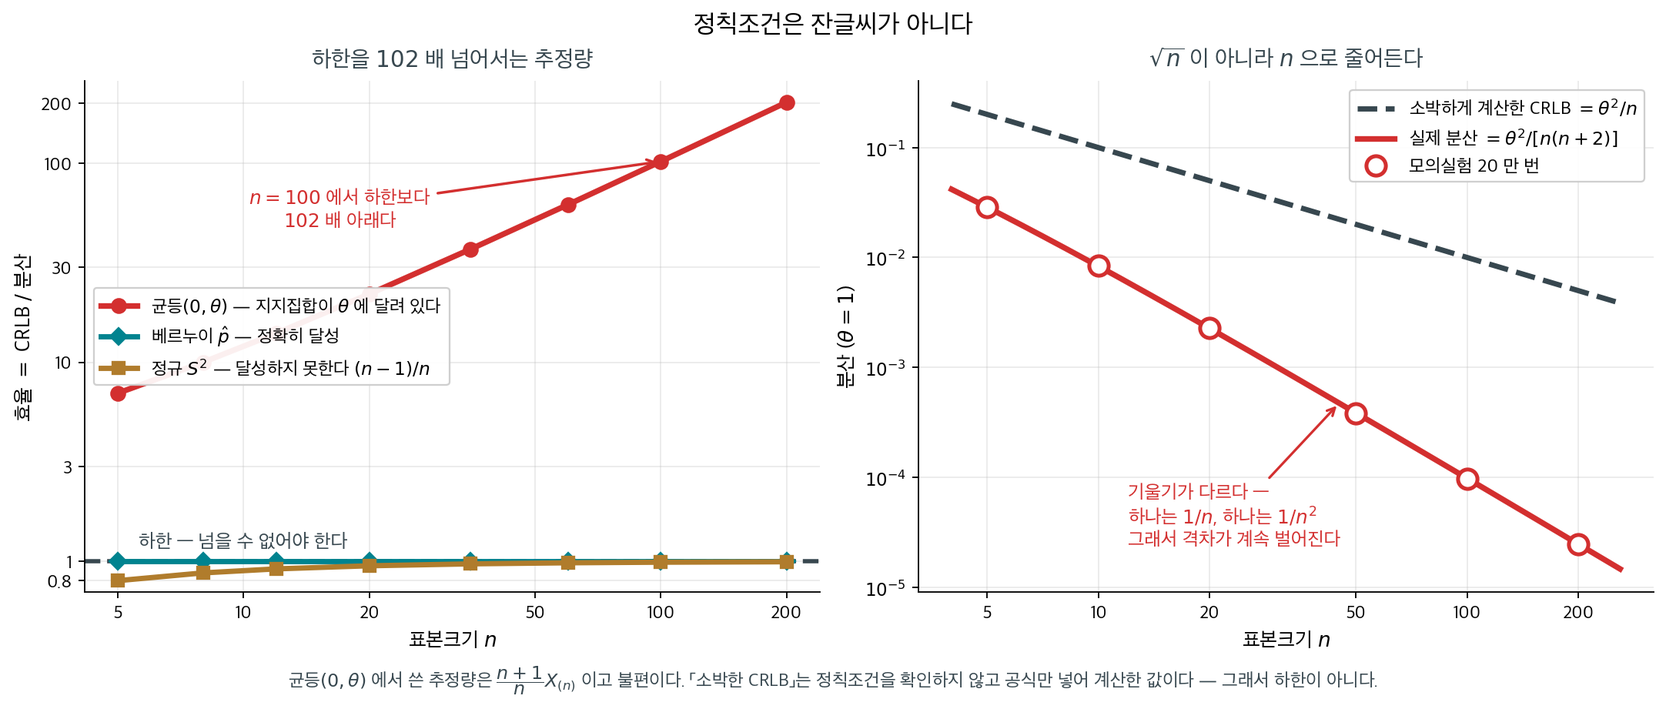
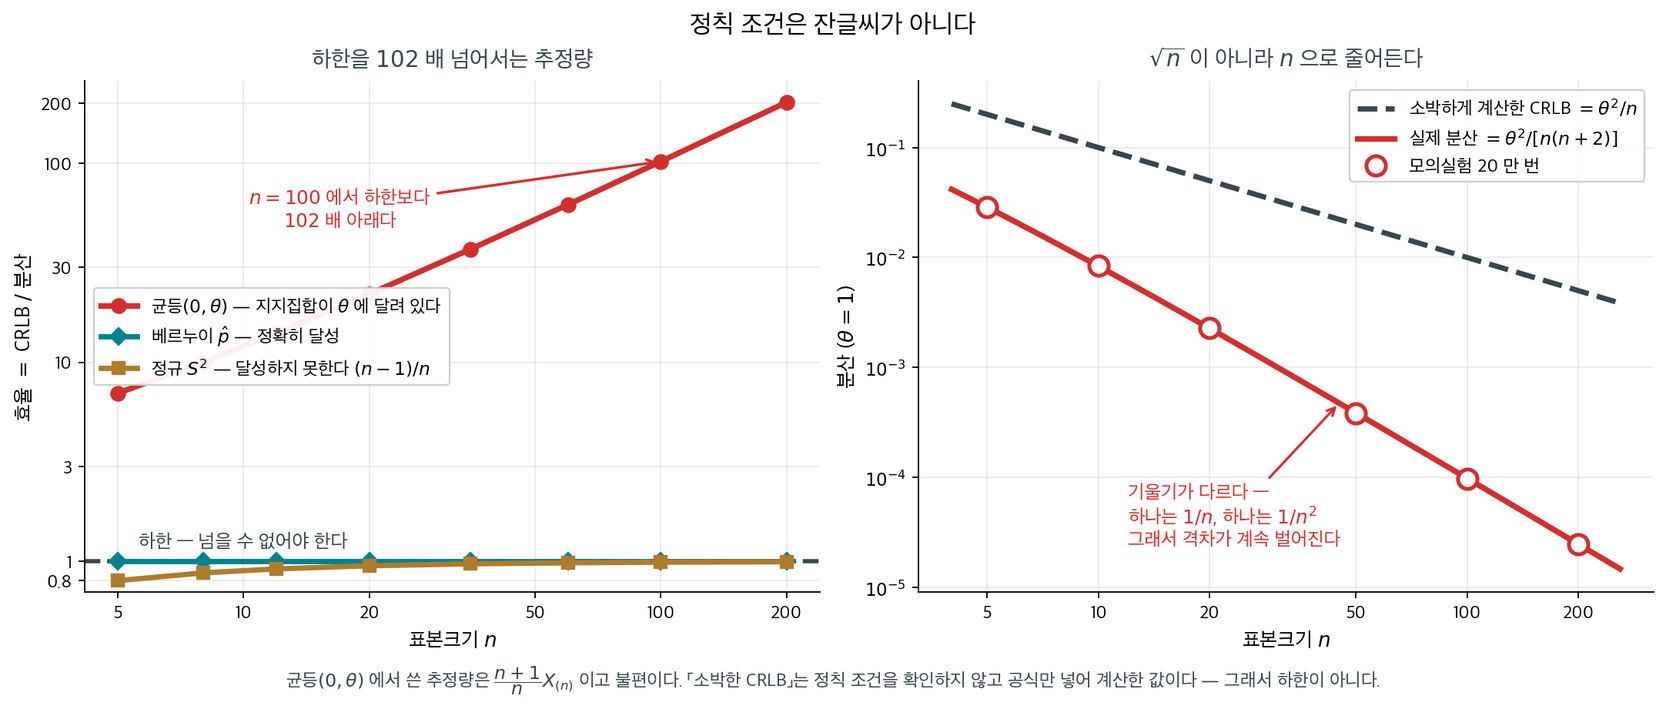
edit(ch07): 7장을 코드를 돌려 가며 다시 읽고 표기를 표준형으로 맞춘다
내용
- consistency: 「확률수렴의 필요충분조건은 E|X| < ∞」는 강한 큰수의 법칙의 조건이다.
  충분조건으로 고쳤다. v = 1/I(θ) 를 MLE·정칙 조건으로 한정, 「보여라」 풀이에 증명을 넣었다
- efficiency_crlb: 2/π 는 폭이 아니라 분산의 비다. 관측값 하나의 ℓ 과 표본 전체를 가르고,
  e^{-λ} 의 하한 유도를 넣었다. 라오의 나이(확인 못 함)를 뺐다
- sufficiency · sufficiency_completeness: 인수분해 정리 증명의 이산 가정, 최소충분성의
  역방향, 완비성 정의의 한정사, 상자의 표준편차 0.0625/0.0630, UMVUE 유일성의 서술
- mle_asymptotics · fisher_information: 「MLE 는 편향」의 전칭, 호지스 상자와 부딪히는
  효율성 문장, 정의 블록의 영어 병기, 기울기 최적 설계의 용량(±2.399)

표기(책 전체): 보조통계량 · 최소분산불편추정량 · 관측/기대 정보량 · 정칙 조건 ·
헤세행렬 · 점근 효율성 · 강한 일치성 · 크라메르 · 슬러츠키. 7장 머리글의 인명은
라오–블랙웰 · 레만–셰페, 호지스 추정량의 a_n 은 절단값. 그림 셋을 다시 그렸다.

Changed region(s): [[0.1548, 0.9425, 0.836, 0.9729], [0.4025, 0.0, 0.5883, 0.0608]]

diff --git a/scripts/make_ch05_quality_figures.py b/scripts/make_ch05_quality_figures.py
@@ -7,7 +7,7 @@ r"""6.3 추정량의 품질 다섯 쪽의 그림을 생성한다.
   ch05/estimators/img/shrinkage_mse.png          축소추정량의 최적 λ
   ch07/theory/img/consistency_asymptotics.png 일치성과 점근정규성
   ch07/theory/img/crlb_information.png       곡률·정보량·분산 하한
-  ch07/theory/img/sufficiency_ladder.png     압축 사다리와 Rao–Blackwell
+  ch07/theory/img/sufficiency_ladder.png     압축 사다리와 라오–블랙웰
 
 실행:  python3 scripts/make_ch06_quality_figures.py   (저장소 최상위에서)
 필요:  numpy, matplotlib — 문서 빌드에는 필요하지 않다.
@@ -367,7 +367,7 @@ def crlb_information():
 
 
 # ==================================================================
-# 6. 압축 사다리와 Rao–Blackwell
+# 6. 압축 사다리와 라오–블랙웰
 # ==================================================================
 def sufficiency_ladder():
     fig, axes = plt.subplots(1, 2, figsize=(13.5, 4.8),
@@ -413,7 +413,7 @@ def sufficiency_ladder():
     ax.axis("off")
     ax.set_title("압축의 사다리", fontsize=13, pad=10)
 
-    # (b) Rao–Blackwell
+    # (b) 라오–블랙웰
     ax = axes[1]
     x = np.linspace(-3.6, 3.6, 700)
     ax.plot(x, normal_pdf(x, 0, 1.25), color=ORANGE, linewidth=2.3,
@@ -436,7 +436,7 @@ def sufficiency_ladder():
     ax.set_xticklabels(["$\\theta$"], fontsize=12)
     bare_axis(ax)
     ax.legend(fontsize=10.5, frameon=False, loc="upper left")
-    ax.set_title("Rao–Blackwell — 충분통계량으로 조건을 걸면", fontsize=13,
+    ax.set_title("라오–블랙웰 — 충분통계량으로 조건을 걸면", fontsize=13,
                  pad=10)
 
     fig.tight_layout()

diff --git a/scripts/make_ch06_crlb_regularity.py b/scripts/make_ch06_crlb_regularity.py
@@ -1,4 +1,4 @@
-r"""6.2절 「그림으로 보는 통계학」 — 정칙조건은 잔글씨가 아니다.
+r"""6.2절 「그림으로 보는 통계학」 — 정칙 조건은 잔글씨가 아니다.
 
 크라메르-라오 하한에는 조건이 붙어 있다. 그 가운데 첫째가 「지지집합이
 theta 에 의존하지 않는다」이고, 이 쪽도 정리 1 의 조건 1 로 적어 두었다.
@@ -140,10 +140,10 @@ def main():
     ax.grid(alpha=0.25)
     ax.spines[["top", "right"]].set_visible(False)
 
-    fig.suptitle("정칙조건은 잔글씨가 아니다", fontsize=14.5)
+    fig.suptitle("정칙 조건은 잔글씨가 아니다", fontsize=14.5)
     fig.text(0.5, -0.05,
              "균등$(0,\\theta)$ 에서 쓴 추정량은 $\\dfrac{n+1}{n}X_{(n)}$ 이고 "
-             "불편이다. 「소박한 CRLB」는 정칙조건을 확인하지 않고 공식만 "
+             "불편이다. 「소박한 CRLB」는 정칙 조건을 확인하지 않고 공식만 "
              "넣어 계산한 값이다 — 그래서 하한이 아니다.",
              ha="center", fontsize=10.4, color=INK)
 

diff --git a/scripts/make_ch07_hodges.py b/scripts/make_ch07_hodges.py
@@ -1,6 +1,6 @@
 r"""호지스의 초효율 추정량 — 공짜로 보이는 것의 값은 어디에 적혀 있는가.
 
-$X_1,\dots,X_n \sim \mathcal{N}(\theta, 1)$ 에서 $a_n = n^{-1/4}$ 로 두고
+$X_1,\dots,X_n \sim N(\theta, 1)$ 에서 $a_n = n^{-1/4}$ 로 두고
 
     theta_hat = Xbar  if |Xbar| >= a_n,   0  otherwise
 
@@ -129,6 +129,6 @@ for n in [10, 100, 1_000, 10_000, 100_000, 1_000_000]:
     r = minimize_scalar(lambda t: -risk(t, n), bounds=(1e-6, 3 * a), method="bounded")
     print(f"  {n:>7,}  {risk(0.0, n):8.4f}  {risk(0.1, n):10.4f}  "
           f"{risk(0.5, n):10.4f}  {-r.fun:11.2f}  {r.x:11.5f}")
-print("\n   견줌 — 임계값 a_n = n^{-1/4}")
+print("\n   견줌 — 절단값 a_n = n^{-1/4}")
 for n in [10, 100, 1_000, 10_000, 100_000, 1_000_000]:
     print(f"  {n:>7,}   a_n = {n ** -0.25:.5f}")

diff --git a/scripts/make_ch13_leadbox_figures_b.py b/scripts/make_ch13_leadbox_figures_b.py
@@ -139,7 +139,7 @@ for fx, fy, ha, txt, col in [
     ax.text(fx, fy, txt, transform=ax.transAxes, ha=ha, va="bottom"
             if fy < 0.5 else "top", fontsize=13.5, color=col,
             fontweight="bold")
-ax.set_xlabel("연관의 크기 — 크래머 V", fontsize=12)
+ax.set_xlabel("연관의 크기 — 크라메르 V", fontsize=12)
 ax.set_ylabel("확실함 — p 값 (위로 갈수록 확실하다)", fontsize=12)
 ax.set_title("세로로만 움직이는 선이 있고 가로로만 움직이는 선이 있다",
              fontsize=13)

diff --git a/scripts/make_ch02_confusion_mosaic.py b/scripts/make_ch02_confusion_mosaic.py
@@ -100,6 +100,6 @@ plt.close(fig)
 print("saved", path)
 
 print(f"n = {n:,},  참 양성 {y.sum():,} 개 ({100*y.mean():.2f} 퍼센트)")
-print("분류기                   정확도     카이제곱        p      크래머 V")
+print("분류기                   정확도     카이제곱        p      크라메르 V")
 for name, acc, chi2, pv, v, T in rows:
     print(f"{name:<22}{acc*100:8.2f}{chi2:12.2f}{pv:9.4f}{v:10.3f}   표 {T.ravel().astype(int)}")

diff --git a/scripts/make_ch07_neyman_scott.py b/scripts/make_ch07_neyman_scott.py
@@ -1,6 +1,6 @@
 r"""네이만과 스콧의 이름이 붙은 두 자리.
 
-① **네이만–스콧 문제** — 짝 자료 $X_{i1}, X_{i2} \sim \mathcal{N}(\mu_i, \sigma^2)$.
+① **네이만–스콧 문제** — 짝 자료 $X_{i1}, X_{i2} \sim N(\mu_i, \sigma^2)$.
    관측은 $2m$ 개인데 모수가 $m+1$ 개라서, $m \to \infty$ 여도 MLE 가
    $\sigma^2/2$ 에 머문다. 일치성이 깨진다.
 ② 견줌 — 고른 포아송 점들.

diff --git a/docs/ch07/theory/efficiency_crlb.md b/docs/ch07/theory/efficiency_crlb.md
@@ -4,7 +4,7 @@
 
 어떤 불편추정량도 넘을 수 없는 분산의 바닥이 있고, 정규모집단에서 표본평균(sample mean)은 그 바닥에 **정확히 닿는다.** 그래서 중앙값은 같은 정밀도를 내려면 관측값이 더 들고, 점근적으로 그 효율이 $2/\pi = 0.6366$ 이다. 그런데 $\sigma = 2$, $n = 50$ 에서 모의실험으로 재면 $0.6567$ 이 나와 점근값보다 $3\%$ 크다. 몬테카를로(Monte Carlo) 오차인가, 아니면 유한표본에서 실제로 다른 것인가 — 그 물음에 답하려면 바닥이 어떻게 유도되었는지를 알아야 한다.
 
-모수적 모형이 주어지면 모수 $\theta$에 대한 불편추정량이 여럿 존재할 수 있다. 어떤 것은 다른 것보다 분산이 작을 텐데, 자연스러운 물음이 떠오른다. 불편추정량의 분산은 얼마나 작아질 수 있는가? **크라메르–라오 하한**(Cramér–Rao lower bound, CRLB(Cramer-Rao lower bound))은 임의의 불편추정량의 분산에 근본적인 바닥을 설정함으로써 이 물음에 답한다. 어떤 특정 추정량의 품질을 재는 기준선을 제공하므로 추정이론의 중심이 되는 결과이다.
+모수적 모형이 주어지면 모수 $\theta$에 대한 불편추정량이 여럿 존재할 수 있다. 어떤 것은 다른 것보다 분산이 작을 텐데, 자연스러운 물음이 떠오른다. 불편추정량의 분산은 얼마나 작아질 수 있는가? **크라메르–라오 하한**(Cramer-Rao lower bound, CRLB)은 임의의 불편추정량의 분산에 근본적인 바닥을 설정함으로써 이 물음에 답한다. 어떤 특정 추정량의 품질을 재는 기준선을 제공하므로 추정이론의 중심이 되는 결과이다.
 
 ---
 
@@ -16,7 +16,7 @@ $$
 I(\theta) = E\!\left[\left(\frac{\partial}{\partial\theta}\log f(X;\theta)\right)^{2}\right] = -E\!\left[\frac{\partial^{2}}{\partial\theta^{2}}\log f(X;\theta)\right]
 $$
 
-이며 독립표본에서는 $n I(\theta)$ 로 더해진다. 두 꼴이 같다는 것과 $E[s] = 0$ 이라는 것은 $7.2$ 절 [피셔 정보량](fisher_information.md)이 정의 $1$·$2$ 와 정리 $1$·$2$ 로 증명해 두었고, 베르누이·정규·포아송에서의 값도 거기 보기 $1$–$3$ 에 있다. 여기서는 그 수를 **하한으로 쓰는** 일만 한다.
+이며 독립표본에서는 $n I(\theta)$ 로 더해진다. 두 꼴이 같다는 것과 $E[s] = 0$ 이라는 것은 $7.2$ 절 [피셔 정보량과 표준오차](fisher_information.md)가 정의 $1$·$2$ 와 정리 $1$·$2$ 로 증명해 두었고, 베르누이·정규·포아송에서의 값도 거기 보기 $1$–$3$ 에 있다. 여기서는 그 수를 **하한으로 쓰는** 일만 한다.
 
 ---
 
@@ -98,9 +98,9 @@ $1 / (nI(\theta))$가 크라메르–라오 하한이다. 어떤 불편추정량
 
 ![곡률, 정보량, 그리고 분산의 바닥](./img/crlb_information.png)
 
-왼쪽이 정보량의 뜻이다. 로그가능도가 꼭대기에서 급하게 휘어 있으면 $\theta$를 조금만 옮겨도 가능도가 크게 떨어지므로, 자료가 "여기다"라고 강하게 말하는 셈이다. 평평하면 그 반대다. 넓은 구간의 $\theta$가 거의 같은 정도로 자료를 설명하므로 어디가 참값인지 자료가 잘 구별하지 못한다. $I(\theta) = -E[\ell''(\theta)]$가 재는 것이 정확히 이 곡률이다.
+왼쪽이 정보량의 뜻이다. 로그가능도가 꼭대기에서 급하게 휘어 있으면 $\theta$를 조금만 옮겨도 가능도가 크게 떨어지므로, 자료가 "여기다"라고 강하게 말하는 셈이다. 평평하면 그 반대다. 넓은 구간의 $\theta$가 거의 같은 정도로 자료를 설명하므로 어디가 참값인지 자료가 잘 구별하지 못한다. 관측값 하나의 로그가능도를 $\ell$ 로 적으면 $I(\theta) = -E[\ell''(\theta)]$가 재는 것이 정확히 이 곡률이고, 독립인 관측값 $n$ 개에서는 곡률이 더해져 $nI(\theta)$ 가 된다.
 
-오른쪽이 그 결과다. 정보량이 정해지면 불편추정량의 분산에 바닥이 생기고, 그 바닥에 닿은 추정량이 **효율적**이다. 정규모집단에서 표본평균은 바닥에 정확히 닿지만 표본중앙값은 그러지 못한다. 두 곡선의 폭 차이가 효율 $2/\pi \approx 0.64$이며, 표본중앙값이 표본평균만큼 정밀해지려면 표본크기를 약 $\pi/2 \approx 1.57$배로 늘려야 한다는 뜻이기도 하다.
+오른쪽이 그 결과다. 정보량이 정해지면 불편추정량의 분산에 바닥이 생기고, 그 바닥에 닿은 추정량이 **효율적**이다. 정규모집단에서 표본평균은 바닥에 정확히 닿지만 표본중앙값은 그러지 못한다. 두 곡선의 **분산**의 비가 효율 $2/\pi \approx 0.64$이며(폭, 곧 표준편차의 비로는 $\sqrt{2/\pi} \approx 0.80$ 이다), 표본중앙값이 표본평균만큼 정밀해지려면 표본크기를 약 $\pi/2 \approx 1.57$배로 늘려야 한다는 뜻이기도 하다.
 
 !!! example "정규분포 평균의 CRLB"
 
@@ -153,7 +153,7 @@ $1 / (nI(\theta))$가 크라메르–라오 하한이다. 어떤 불편추정량
     표본중앙값은 다르다. 중앙값의 점근분포는
 
     $$
-    \sqrt{n}\,(\tilde X - \mu) \overset{d}{\to} N\!\left(0, \frac{1}{4f(\mu)^2}\right)
+    \sqrt{n}\,(\tilde X - \mu) \xrightarrow{d} N\!\left(0, \frac{1}{4f(\mu)^2}\right)
     $$
 
     인데 정규밀도의 중앙에서 $f(\mu) = 1/(\sigma\sqrt{2\pi})$이므로
@@ -285,7 +285,7 @@ $$
 
 !!! example "표본중앙값의 효율 (정규분포)"
 
-    $X_1, \ldots, X_n \overset{\text{iid}}{\sim} N(\mu, \sigma^2)$에서 표본중앙값도 $\mu$의 불편추정량이지만 점근분산은 $\pi \sigma^2 / (2n)$이다. 따라서 점근 효율은
+    $X_1, \ldots, X_n \overset{\text{iid}}{\sim} N(\mu, \sigma^2)$에서 표본중앙값도 $\mu$의 불편추정량이지만 $n$ 이 클 때 분산이 근사적으로 $\pi \sigma^2 / (2n)$이다. 따라서 점근 효율은
 
     $$
     e(\text{median}) = \frac{\sigma^2/n}{\pi\sigma^2/(2n)} = \frac{2}{\pi} \approx 0.637
@@ -311,7 +311,7 @@ $$
 
 <div class="storybox" markdown>
 
-**그림으로 보는 통계학 1.** 정칙조건은 잔글씨가 아니다
+**그림으로 보는 통계학 1.** 정칙 조건은 잔글씨가 아니다
 
 위 경고가 말하는 「$1/n$ 보다 빠르다」가 얼마나 빠른 것인지 재 보자. 정리 1 의 조건들을 세 모형에서 나란히 놓으면 세 가지 다른 일이 일어난다.
 
@@ -334,7 +334,7 @@ $$
 
 까닭은 자료가 모수를 좁히는 방식에 있다. 보통의 모형에서는 관측값 하나가 $\theta$ 에 대한 믿음을 **조금씩** 조정한다. 그런데 균등분포에서는 $x_i > \theta$ 인 관측값이 하나라도 나오면 그 $\theta$ 는 **즉시 배제된다.** 조금 깎는 것이 아니라 단칼에 자르는 것이다. 그래서 수렴이 $\sqrt{n}$ 이 아니라 $n$ 으로 간다.
 
-끝으로 이 부등식의 내력. **네 사람이 네 해 사이에 따로 얻었다** — 프레셰($1943$, 프랑스), 다르무아($1945$, 프랑스), 라오($1945$, 인도), 크라메르($1946$, 스웨덴). 전쟁으로 나라 사이의 연락이 끊겨 있던 기간이다. 라오 쪽의 계기는 교실이었다. $1944$ 년 $1$ 월, 스물넷이던 그가 캘커타에서 추정을 가르치며 **큰 표본에서 성립하는** 피셔의 결과를 증명해 보이자 한 학생이 물었다 — 「표본이 작을 때는 왜 안 됩니까?」 그는 집에 가 밤을 새웠고, 이듬해 스물다섯에 논문으로 냈다. 그래서 이 부등식을 네 이름을 모두 붙여 부르는 책도 있다.
+끝으로 이 부등식의 내력. **네 사람이 네 해 사이에 따로 얻었다** — 프레셰($1943$, 프랑스), 다르무아($1945$, 프랑스), 라오($1945$, 인도), 크라메르($1946$, 스웨덴). 전쟁으로 나라 사이의 연락이 끊겨 있던 기간이다. 라오 쪽의 계기는 교실이었다. $1944$ 년 $1$ 월, 그가 캘커타에서 추정을 가르치며 **큰 표본에서 성립하는** 피셔의 결과를 증명해 보이자 한 학생이 물었다 — 「표본이 작을 때는 왜 안 됩니까?」 그는 집에 가 밤을 새웠고, 이듬해 논문으로 냈다. 그래서 이 부등식을 네 이름을 모두 붙여 부르는 책도 있다.
 
 _확인한 곳 — 네 사람이 따로 얻은 연도(프레셰 $1943$, 다르무아 $1945$, 라오 $1945$, 크라메르 $1946$)와 다르무아가 처음으로 엄밀한 증명을 준 것, $1944$ 년 $1$ 월 캘커타의 수업에서 학생의 물음을 받고 라오가 밤새워 유한표본 판을 얻어 이듬해 발표했다는 일화. 그림과 표의 수는 모두 직접 계산한 값이다_
 
@@ -511,9 +511,9 @@ $X_1, \ldots, X_n \sim N(\mu, \sigma^2)$이고 추정량이 $\hat\mu_w = wX_1 + 
 
     모두 $\bar X$라는 점이 시사적이다. 지수족에서 자연통계량의 평균을 추정할 때만 하한이 달성된다.
 
-    **달성되지 않는 예.** 같은 포아송에서 $g(\lambda)=e^{-\lambda}$를 추정하면 하한을 달성하는 불편추정량이 없다. $\lambda$의 비선형 함수이기 때문이다. 지수분포(exponential distribution)에서 $\lambda$ 자체도 마찬가지다($\mu=1/\lambda$는 되지만).
+    **달성되지 않는 예.** 같은 포아송에서 $g(\lambda)=e^{-\lambda}$를 추정하면 하한을 달성하는 불편추정량이 없다. $\lambda$의 비선형 함수이기 때문이다. (모수의 함수 $g(\theta)$ 를 불편추정할 때의 하한은 $g'(\theta)^2/\{nI(\theta)\}$ 다. 정리 1 의 증명에서 $E[\hat\theta] = \theta$ 대신 $E[\hat\theta] = g(\theta)$ 를 미분하면 공분산이 $1$ 대신 $g'(\theta)$ 가 된다.) 지수분포(exponential distribution)에서 $\lambda$ 자체도 마찬가지다($\mu=1/\lambda$는 되지만).
 
-    **실무적 함의.** "MLE가 하한을 달성하지 못한다"는 것이 MLE가 나쁘다는 뜻이 아니다. **하한 자체가 달성 불가능한 경우가 많다.** 그래서 유한표본 최적성보다 점근효율성을 기준으로 삼는 것이 일반적이다.
+    **실무적 함의.** "MLE가 하한을 달성하지 못한다"는 것이 MLE가 나쁘다는 뜻이 아니다. **하한 자체가 달성 불가능한 경우가 많다.** 그래서 유한표본 최적성보다 점근 효율성을 기준으로 삼는 것이 일반적이다.
 
 ---
 
@@ -533,7 +533,7 @@ $X_1, \ldots, X_n \sim N(\mu, \sigma^2)$이고 추정량이 $\hat\mu_w = wX_1 + 
 
     이다. 1보다 크면 $\hat\theta_1$이 더 효율적이다. 실무적으로는 "같은 정밀도를 얻는 데 필요한 표본크기의 비"로 읽는다.
 
-    **일반 공식.** 표본중앙값의 점근분산이 $1/\{4nf(m)^2\}$이고 표본평균이 $\sigma^2/n$이므로
+    **일반 공식.** $n$ 이 클 때 표본중앙값의 분산이 근사적으로 $1/\{4nf(m)^2\}$이고($m$ 은 모집단 중앙값) 표본평균의 분산이 $\sigma^2/n$이므로
 
     $$
     \text{ARE}(\tilde X, \bar X) = 4\sigma^2 f(m)^2
@@ -709,4 +709,4 @@ $$
 - **하한을 달성하는 추정량을 효율적이라 한다.** 달성되는 자리는 $\S 5$ 의 조건이 말하는 대로 점수함수가 $a(\theta)[T(x)-\theta]$ 로 쪼개지는 곳이고, 지수족에서 그것은 **평균모수** — 충분통계량의 기댓값 — 를 추정할 때다. 자연모수가 아니다. 베르누이에서 달성되는 것은 $p$ 이고(자연모수는 $\log\frac{p}{1-p}$ 다), 포아송에서 달성되는 것은 $\lambda$ 다(자연모수는 $\log\lambda$ 다). 일반적으로는 최대가능도추정량이 **점근적으로** 달성한다.
 - **정칙 조건이 필수다.** 지지집합이 $\theta$ 에 의존하면(균등분포의 $\theta$ 추정이 그렇다) 하한 자체가 성립하지 않고, 실제로 $1/n$ 보다 빠른 $1/n^2$ 속도가 가능하다.
 
-다음 절 **[충분성](sufficiency.md)**으로 넘어간다. "정보를 잃지 않고 자료를 얼마나 압축할 수 있는가"라는, 정보량과 짝을 이루는 물음이다.
+다음 쪽 **[충분성과 최소충분성](sufficiency.md)**으로 넘어간다. "정보를 잃지 않고 자료를 얼마나 압축할 수 있는가"라는, 정보량과 짝을 이루는 물음이다.

diff --git a/docs/ch06/mle/mle_optimization.md b/docs/ch06/mle/mle_optimization.md
@@ -948,7 +948,7 @@ $$
     \ell(\theta) \approx \ell(\hat\theta) + \frac12\ell''(\hat\theta)(\theta-\hat\theta)^2 = \ell(\hat\theta) - \frac{\hat I}{2}(\theta-\hat\theta)^2
     $$
 
-    이다($\hat I = -\ell''(\hat\theta)$는 관측정보량). 즉 **로그가능도가 봉우리 근처에서 위로 볼록한(아래로 열린) 포물선**이고, 가능도 자체는
+    이다($\hat I = -\ell''(\hat\theta)$는 관측 정보량). 즉 **로그가능도가 봉우리 근처에서 위로 볼록한(아래로 열린) 포물선**이고, 가능도 자체는
 
     $$
     L(\theta) \approx L(\hat\theta)\exp\left\{-\frac{\hat I}{2}(\theta-\hat\theta)^2\right\}
@@ -1021,27 +1021,27 @@ $$
 <div class="drillbox" markdown>
 
 **연습문제 5.** <span class="diff med" title="중간"></span>
-**관측정보량** $\hat I = -\ell''(\hat\theta)$과 **기대정보량** $I(\theta) = E[-\ell''(\theta)]$의 차이를 설명하라. 표준오차 계산에 어느 쪽을 쓰는 것이 좋은가?
+**관측 정보량** $\hat I = -\ell''(\hat\theta)$과 **기대 정보량** $I(\theta) = E[-\ell''(\theta)]$의 차이를 설명하라. 표준오차 계산에 어느 쪽을 쓰는 것이 좋은가?
 
 </div>
 
 ??? success "풀이"
     **차이.**
 
-    - **관측정보량**은 손에 든 자료에서 계산한 실제 곡률이다. 확률변수이며 자료마다 다르다.
-    - **기대정보량**은 그 기댓값이다. $\theta$만의 함수이고 자료에 의존하지 않는다.
+    - **관측 정보량**은 손에 든 자료에서 계산한 실제 곡률이다. 확률변수이며 자료마다 다르다.
+    - **기대 정보량**은 그 기댓값이다. $\theta$만의 함수이고 자료에 의존하지 않는다.
 
     큰수의 법칙에 따라 $\hat I/n \to I_1(\theta)$이므로 $n$이 크면 둘이 가까워진다.
 
-    분포에 따라 아예 같은 경우도 있다. 지수분포(exponential distribution)에서 $\ell'' = -n/\lambda^2$은 자료에 의존하지 않으므로 관측정보량과 기대정보량이 정확히 같다. 베르누이에서는 $\hat I = n/\{\hat p(1-\hat p)\}$이고 $I(\hat p)$도 같은 값이라 역시 일치한다. **지수족이면 어떤 모수화로 적든 MLE 자리에서는 언제나 일치한다.** 자연모수 $\eta$로 적으면 $-\ell''(\eta) = nA''(\eta)$가 자료에 의존하지 않아 모든 자리에서 같고, 다른 모수로 옮겨도 $-\ell''$에 붙는 나머지 항이 $\bar T - A'(\eta)$에 비례해 $\hat\eta$에서 $0$이 되기 때문이다. 베르누이를 $p$로 적은 위의 예가 MLE 에서만 일치하는 것이 그 경우다(GLM 의 정준연결에서 둘이 늘 같은 것도 같은 까닭이다).
+    분포에 따라 아예 같은 경우도 있다. 지수분포(exponential distribution)에서 $\ell'' = -n/\lambda^2$은 자료에 의존하지 않으므로 관측 정보량과 기대 정보량이 정확히 같다. 베르누이에서는 $\hat I = n/\{\hat p(1-\hat p)\}$이고 $I(\hat p)$도 같은 값이라 역시 일치한다. **지수족이면 어떤 모수화로 적든 MLE 자리에서는 언제나 일치한다.** 자연모수 $\eta$로 적으면 $-\ell''(\eta) = nA''(\eta)$가 자료에 의존하지 않아 모든 자리에서 같고, 다른 모수로 옮겨도 $-\ell''$에 붙는 나머지 항이 $\bar T - A'(\eta)$에 비례해 $\hat\eta$에서 $0$이 되기 때문이다. 베르누이를 $p$로 적은 위의 예가 MLE 에서만 일치하는 것이 그 경우다(GLM 의 정준연결에서 둘이 늘 같은 것도 같은 까닭이다).
 
-    **어느 쪽을 쓸까.** 일반적으로 **관측정보량**이 권장되며, 이유는 세 가지다.
+    **어느 쪽을 쓸까.** 일반적으로 **관측 정보량**이 권장되며, 이유는 세 가지다.
 
     1. **계산이 쉽다.** 기댓값을 구할 필요 없이 최적화 과정에서 이미 얻은 헤세행렬을 그대로 쓴다.
-    2. **조건성 원리에 맞는다.** 실제로 얻은 자료가 얼마나 정보를 담고 있는지를 반영한다. 에프론과 힝클리가 보인 대로, 부수통계량으로 조건화한 추론에 더 가깝다.
-    3. **모형이 조금 틀렸을 때 더 낫다.** 기대정보량은 모형이 정확히 맞다는 가정에 더 의존한다.
+    2. **조건성 원리에 맞는다.** 실제로 얻은 자료가 얼마나 정보를 담고 있는지를 반영한다. 에프론과 힝클리가 보인 대로, 보조통계량으로 조건화한 추론에 더 가깝다.
+    3. **모형이 조금 틀렸을 때 더 낫다.** 기대 정보량은 모형이 정확히 맞다는 가정에 더 의존한다.
 
-    **예외.** 기대정보량이 유용한 경우도 있다. 피셔 점수법에서는 기대정보량이 언제나 양반정치라 알고리즘이 안정적이다. 또 실험 설계 단계에서는 자료가 없으므로 기대정보량으로 표본크기를 계획한다.
+    **예외.** 기대 정보량이 유용한 경우도 있다. 피셔 점수법에서는 기대 정보량이 언제나 양반정치라 알고리즘이 안정적이다. 또 실험 설계 단계에서는 자료가 없으므로 기대 정보량으로 표본크기를 계획한다.
 
 ---
 
@@ -1258,7 +1258,7 @@ $$
     data = rng.binomial(1, 0.3, n)
     x_sum = data.sum()
 
-    # 뉴턴-랩슨: 관측정보량을 쓴다.
+    # 뉴턴-랩슨: 관측 정보량을 쓴다.
     p_nr = 0.5
     for i in range(10):
         score = x_sum / p_nr - (n - x_sum) / (1 - p_nr)
@@ -1266,7 +1266,7 @@ $$
         p_nr = p_nr - score / hessian
         print(f"NR  iter {i+1}: p = {p_nr:.8f}")
 
-    # 피셔 스코어링: 기대정보량을 쓴다.
+    # 피셔 스코어링: 기대 정보량을 쓴다.
     p_fs = 0.5
     for i in range(10):
         score = x_sum / p_fs - (n - x_sum) / (1 - p_fs)
@@ -1306,7 +1306,7 @@ $$
     p + \frac{x_{\text{sum}}/p - (n-x_{\text{sum}})/(1-p)}{n/\{p(1-p)\}} = p + \frac{x_{\text{sum}} - np}{n} = \frac{x_{\text{sum}}}{n}
     $$
 
-    이라 어디서 출발하든 한 걸음이다. 뉴턴–랩슨은 출발점 $p = 0.5$에서 관측정보량 $x_{\text{sum}}/0.25 + (n-x_{\text{sum}})/0.25 = 4n$이 기대정보량 $n/0.25 = 4n$과 같아서 같은 한 걸음을 뛴 것이다(다른 출발점에서는 뉴턴–랩슨이 여러 걸음을 걸린다). 일반적으로는 관측 헤세행렬의 조건수가 나쁠 때 피셔 점수법이 더 안정적일 수 있다.
+    이라 어디서 출발하든 한 걸음이다. 뉴턴–랩슨은 출발점 $p = 0.5$에서 관측 정보량 $x_{\text{sum}}/0.25 + (n-x_{\text{sum}})/0.25 = 4n$이 기대 정보량 $n/0.25 = 4n$과 같아서 같은 한 걸음을 뛴 것이다(다른 출발점에서는 뉴턴–랩슨이 여러 걸음을 걸린다). 일반적으로는 관측 헤세행렬의 조건수가 나쁠 때 피셔 점수법이 더 안정적일 수 있다.
 
 ---
 
@@ -1423,7 +1423,7 @@ $$
 
     이것을 잊는 것이 가장 흔한 실수다.
 
-    **이유 3 — 목적함수의 부호와 상수.** 최소화를 위해 **음의** 로그가능도를 넘겼다면 그 헤세행렬이 곧 관측정보량이다. 부호를 한 번 더 뒤집으면 음수 분산이 나온다. 또 $-2\ell$을 최소화했다면 헤세행렬이 2배이므로 표준오차가 $\sqrt2$배 틀린다.
+    **이유 3 — 목적함수의 부호와 상수.** 최소화를 위해 **음의** 로그가능도를 넘겼다면 그 헤세행렬이 곧 관측 정보량이다. 부호를 한 번 더 뒤집으면 음수 분산이 나온다. 또 $-2\ell$을 최소화했다면 헤세행렬이 2배이므로 표준오차가 $\sqrt2$배 틀린다.
 
     **권장 절차.**
 
@@ -1480,13 +1480,13 @@ $$
 ??? success "풀이"
     점수함수 $U(\boldsymbol\theta) = \partial\ell/\partial\boldsymbol\theta$를 0으로 만드는 것이 목표다. $\hat{\boldsymbol\theta}$ 근처에서 테일러 전개하면 갱신식이 나온다.
 
-    **뉴턴–랩슨.** **관측정보량**(헤세행렬의 음수)을 쓴다.
+    **뉴턴–랩슨.** **관측 정보량**(헤세행렬의 음수)을 쓴다.
 
     $$
     \boldsymbol\theta^{(k+1)} = \boldsymbol\theta^{(k)} + \left\{-\frac{\partial^2\ell}{\partial\boldsymbol\theta\partial\boldsymbol\theta^\top}\right\}^{-1}U(\boldsymbol\theta^{(k)})
     $$
 
-    **피셔 점수법.** 관측정보량을 그 기댓값인 **피셔 정보량**으로 바꾼다.
+    **피셔 점수법.** 관측 정보량을 그 기댓값인 **피셔 정보량**으로 바꾼다.
 
     $$
     \boldsymbol\theta^{(k+1)} = \boldsymbol\theta^{(k)} + I(\boldsymbol\theta^{(k)})^{-1}U(\boldsymbol\theta^{(k)})
@@ -1497,7 +1497,7 @@ $$
     | | 뉴턴–랩슨 | 피셔 점수법 |
     |---|---|---|
     | 수렴 속도 | 이차(가까이서 매우 빠름) | 대체로 일차~이차 |
-    | 안정성 | 관측정보량이 양정치가 아니면 발산 가능 | $I$가 언제나 양반정치라 안정적 |
+    | 안정성 | 관측 정보량이 양정치가 아니면 발산 가능 | $I$가 언제나 양반정치라 안정적 |
     | 계산 | 2계 도함수 필요 | 기댓값을 미리 구해 두면 단순해지는 경우 많음 |
     | 정준연결 GLM | — | **둘이 완전히 일치** |
 
@@ -1505,7 +1505,7 @@ $$
 
     **실무.** 일반화선형모형(generalized linear model)에서 피셔 점수법을 정리하면 **반복재가중최소제곱(IRLS)** 이 된다. 각 단계가 가중최소제곱 문제라 기존 선형대수 코드를 그대로 쓸 수 있고, 이것이 [GLM](../../glossary.md#glm) 소프트웨어의 표준 구현이다.
 
-    **표준오차에는 어느 정보량을 쓸까.** 관측정보량 $-\ell''(\hat\theta)$을 쓰는 것이 일반적으로 권장된다. 자료가 실제로 담고 있는 곡률을 반영하고, 모형이 조금 틀렸을 때도 더 나은 근사를 준다.
+    **표준오차에는 어느 정보량을 쓸까.** 관측 정보량 $-\ell''(\hat\theta)$을 쓰는 것이 일반적으로 권장된다. 자료가 실제로 담고 있는 곡률을 반영하고, 모형이 조금 틀렸을 때도 더 나은 근사를 준다.
 
 ---
 

diff --git a/docs/ch07/theory/fisher_information.md b/docs/ch07/theory/fisher_information.md
@@ -16,6 +16,8 @@
 
 ### 정의 1. 점수함수 { .dfn }
 
+**점수함수**(score function)는 로그밀도 $\log f(x;\theta)$ 를 $\theta$ 로 미분한 것이다.
+
 $$
 s(x; \theta) = \frac{\partial}{\partial \theta} \log f(x; \theta)
 $$
@@ -70,7 +72,7 @@ $$
 
 ### 정의 2. 피셔 정보량 { .dfn }
 
-관측값 하나에 대한 **피셔 정보량**은 점수함수의 분산이다.
+관측값 하나에 대한 **피셔 정보량**(Fisher information)은 점수함수의 분산이다.
 
 $$
 I(\theta) = \operatorname{Var}\bigl(s(X;\theta)\bigr) = E\left[\left(\frac{\partial}{\partial \theta} \log f(X;\theta)\right)^{\!2}\right]
@@ -629,9 +631,9 @@ Poisson$(\lambda)$: $f(x; \lambda) = \lambda^x e^{-\lambda}/x!$. (a) $I(\lambda)
 </div>
 
 ??? success "풀이"
-    **정의 1 (점수의 분산):** $I(\theta) = \mathbb{E}[(\partial \log f/\partial\theta)^2]$.
+    **첫째 꼴 (점수의 분산):** $I(\theta) = \mathbb{E}[(\partial \log f/\partial\theta)^2]$.
 
-    **정의 2 (2계도함수, 곧 곡률):** $I(\theta) = -\mathbb{E}[\partial^2 \log f/\partial\theta^2]$.
+    **둘째 꼴 (2계도함수, 곧 곡률):** $I(\theta) = -\mathbb{E}[\partial^2 \log f/\partial\theta^2]$.
 
     **동등성 증명:** 항등식 $\int f \, dx = 1$을 한 번 미분하면 $\int \partial f/\partial\theta \, dx = 0 \Rightarrow \int f \cdot \partial \log f/\partial\theta \, dx = 0 \Rightarrow \mathbb{E}[\partial \log f/\partial\theta] = 0$이다.
 
@@ -697,7 +699,7 @@ Poisson$(\lambda)$: $f(x; \lambda) = \lambda^x e^{-\lambda}/x!$. (a) $I(\lambda)
     - 기대 정보량은 분포에 대해 적분해야 하는데, 해석적으로 어렵거나 불가능할 수 있다.
     - 관측 정보량은 MLE에서 2계도함수만 계산하면 되므로 계산이 더 간단하다.
 
-    **권고:** 에프론과 힝클리(1978)는 유한표본 추론에서 **관측 정보량**이 낫다고 주장한다(많은 경우 더 정확한 신뢰구간을 준다). 통계 소프트웨어는 경우에 따라 갈린다. 일반 최대가능도 루틴(`statsmodels` 의 `GenericLikelihoodModel`, R 의 `optim(..., hessian = TRUE)`)은 MLE 에서 잰 헤시안, 곧 관측 정보량을 쓰고, 일반화선형모형을 IRLS 로 적합하는 `glm`(R)과 `GLM`(`statsmodels`)은 기대 정보량을 쓴다. 정준 연결함수에서는 둘이 같다.
+    **권고:** 에프론과 힝클리(1978)는 유한표본 추론에서 **관측 정보량**이 낫다고 주장한다(많은 경우 더 정확한 신뢰구간을 준다). 통계 소프트웨어는 경우에 따라 갈린다. 일반 최대가능도 루틴(`statsmodels` 의 `GenericLikelihoodModel`, R 의 `optim(..., hessian = TRUE)`)은 MLE 에서 잰 헤세행렬, 곧 관측 정보량을 쓰고, 일반화선형모형을 IRLS 로 적합하는 `glm`(R)과 `GLM`(`statsmodels`)은 기대 정보량을 쓴다. 정준 연결함수에서는 둘이 같다.
 
 <div class="drillbox" markdown>
 
@@ -751,7 +753,7 @@ $I(\theta) = E\left[\left(\dfrac{\partial\ln f}{\partial\theta}\right)^2\right]$
 <div class="drillbox" markdown>
 
 **연습문제 9.** <span class="diff med" title="중간"></span>
-$g(\theta)$를 추정할 때의 크라메르–라오 하한이 $\{g'(\theta)\}^2/\{nI_1(\theta)\}$임을 설명하고, 포아송에서 $g(\lambda)=e^{-\lambda}$(사건이 0번 일어날 확률)의 하한을 구하라. $\hat g = e^{-\bar X}$가 이 하한을 달성하는가?
+$g(\theta)$를 추정할 때의 크라메르–라오 하한이 $\{g'(\theta)\}^2/\{nI_1(\theta)\}$임을 설명하고($I_1$ 은 관측값 하나의 정보량 $I$ 를 표본 전체의 $I_n = nI$ 와 구별해 적은 것이다), 포아송에서 $g(\lambda)=e^{-\lambda}$(사건이 0번 일어날 확률)의 하한을 구하라. $\hat g = e^{-\bar X}$가 이 하한을 달성하는가?
 
 </div>
 
@@ -762,7 +764,7 @@ $g(\theta)$를 추정할 때의 크라메르–라오 하한이 $\{g'(\theta)\}^
     \operatorname{Var}(\hat g) \ge \frac{\{g'(\theta)\}^2}{nI_1(\theta)}
     $$
 
-    이다. 델타 방법의 결과와 같은 꼴이며, 이는 우연이 아니라 MLE의 점근효율성이 변환에 보존되기 때문이다.
+    이다. 델타 방법의 결과와 같은 꼴이며, 이는 우연이 아니라 MLE의 점근 효율성이 변환에 보존되기 때문이다.
 
     **포아송 적용.** $I_1(\lambda) = 1/\lambda$이고 $g(\lambda)=e^{-\lambda}$이므로 $g'(\lambda) = -e^{-\lambda}$이고
 
@@ -820,7 +822,7 @@ $g(\theta)$를 추정할 때의 크라메르–라오 하한이 $\{g'(\theta)\}^
     p = 0.176 \quad\text{과}\quad p = 0.824
     $$
 
-    에 해당하는 두 용량에 표본을 반씩 배치하는 것으로 알려져 있다($\beta_0+\beta_1x = \pm1.5434$). 엄밀히는 이것이 두 모수 $(\beta_0,\beta_1)$ 을 함께 겨냥해 정보행렬의 행렬식을 최대로 하는 $D$-최적 설계이고, 기울기 하나의 분산만 최소로 하는 설계에서는 두 용량이 이보다 조금 바깥에 놓인다.
+    에 해당하는 두 용량에 표본을 반씩 배치하는 것으로 알려져 있다($\beta_0+\beta_1x = \pm1.5434$). 엄밀히는 이것이 두 모수 $(\beta_0,\beta_1)$ 을 함께 겨냥해 정보행렬의 행렬식을 최대로 하는 $D$-최적 설계이고, 기울기 하나의 분산만 최소로 하는 설계에서는 두 용량이 이보다 바깥($\beta_0+\beta_1x = \pm2.399$, 곧 $p = 0.083$ 과 $p = 0.917$)에 놓인다.
 
     **실무에서 그대로 쓰지 않는 이유.**
 
@@ -889,7 +891,7 @@ $g(\theta)$를 추정할 때의 크라메르–라오 하한이 $\{g'(\theta)\}^
     - **절단오차** $O(h^2)$: $h$가 크면 커진다.
     - **반올림오차** $O(\epsilon/h^2)$: $h$가 작으면 커진다. 분자에서 거의 같은 세 수를 빼기 때문에 상쇄가 일어나고, 그것을 아주 작은 $h^2$으로 나누면 오차가 증폭된다.
 
-    최적 $h$는 대략 $\epsilon^{1/4} \approx 10^{-4}$인데, 그때도 유효숫자를 절반 이상 잃는다. 1계 도함수의 최적 $h \approx \epsilon^{1/3}$보다 나쁘다.
+    최적 $h$는 대략 $\epsilon^{1/4} \approx 10^{-4}$인데, 그때도 오차가 $\sqrt\epsilon \approx 10^{-8}$ 수준이라 유효숫자의 절반가량을 잃는다. 1계 도함수의 중심차분(최적 $h \approx \epsilon^{1/3}$, 오차 $\epsilon^{2/3}$ 으로 유효숫자의 3분의 1을 잃는다)보다 나쁘다.
 
     **더 나은 방법 1 — 해석적 미분.** 손으로 2계 도함수를 구해 코드에 넣는다. 가장 정확하고 빠르지만, 모형이 복잡하면 실수하기 쉽고 모형을 바꿀 때마다 다시 해야 한다.
 
@@ -1063,7 +1065,7 @@ $$
 
   두 번째 것이 실무에서 계산하기 쉽고, **로그가능도의 곡률**이라는 해석을 준다. 봉우리가 뾰족할수록 정보가 많다.
 - **가법적이다.** i.i.d. 관측 $n$ 개의 정보량은 $nI(\theta)$ 이며, 이것이 표준오차가 $1/\sqrt{nI(\theta)}$ 로 줄어드는 이유다.
-- **실무의 표준오차는 관측정보로 계산한다.** 기댓값을 구하기 어려울 때 $\hat\theta$ 에서 평가한 $-\ell''(\hat\theta)$ 을 쓰며, 수치 최적화기가 돌려주는 헤세행렬이 바로 그것이다.
+- **실무의 표준오차는 흔히 관측 정보량으로 계산한다.** 기댓값을 구하기 어려울 때 $\hat\theta$ 에서 평가한 $-\ell''(\hat\theta)$ 을 쓰며, 수치 최적화기가 돌려주는 헤세행렬이 바로 그것이다.
 - **다모수에서는 행렬이 된다.** 정보행렬의 역행렬이 점근 공분산행렬이며, 대각원소의 제곱근이 각 모수의 표준오차다. **비대각 원소가 0 이 아니면 모수들이 얽혀 있어** 하나를 정밀하게 추정하기가 더 어려워진다.
 
 다음 장 **[신뢰구간](../../ch08/index.md)**으로 넘어간다. 지금까지 점 하나로 답했다면, 이제 **불확실성의 범위를 함께 보고하는** 방법을 다룬다.
